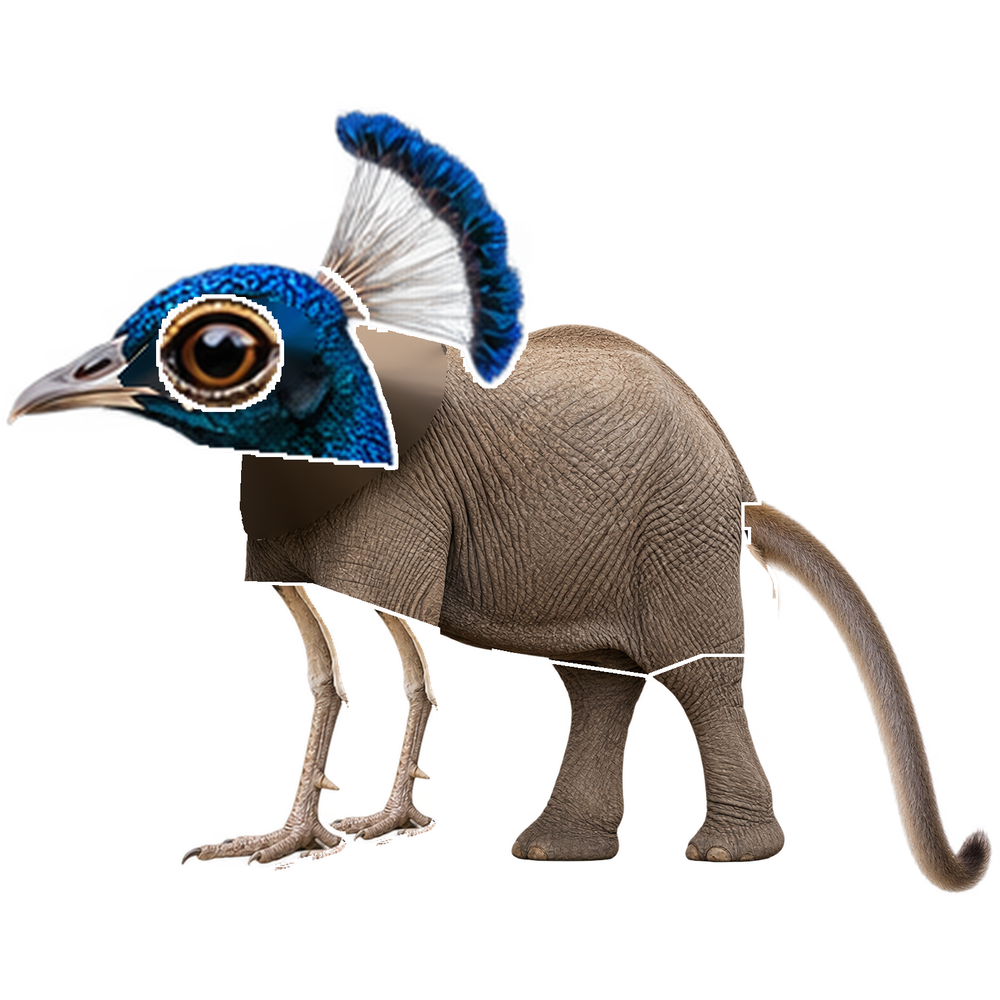
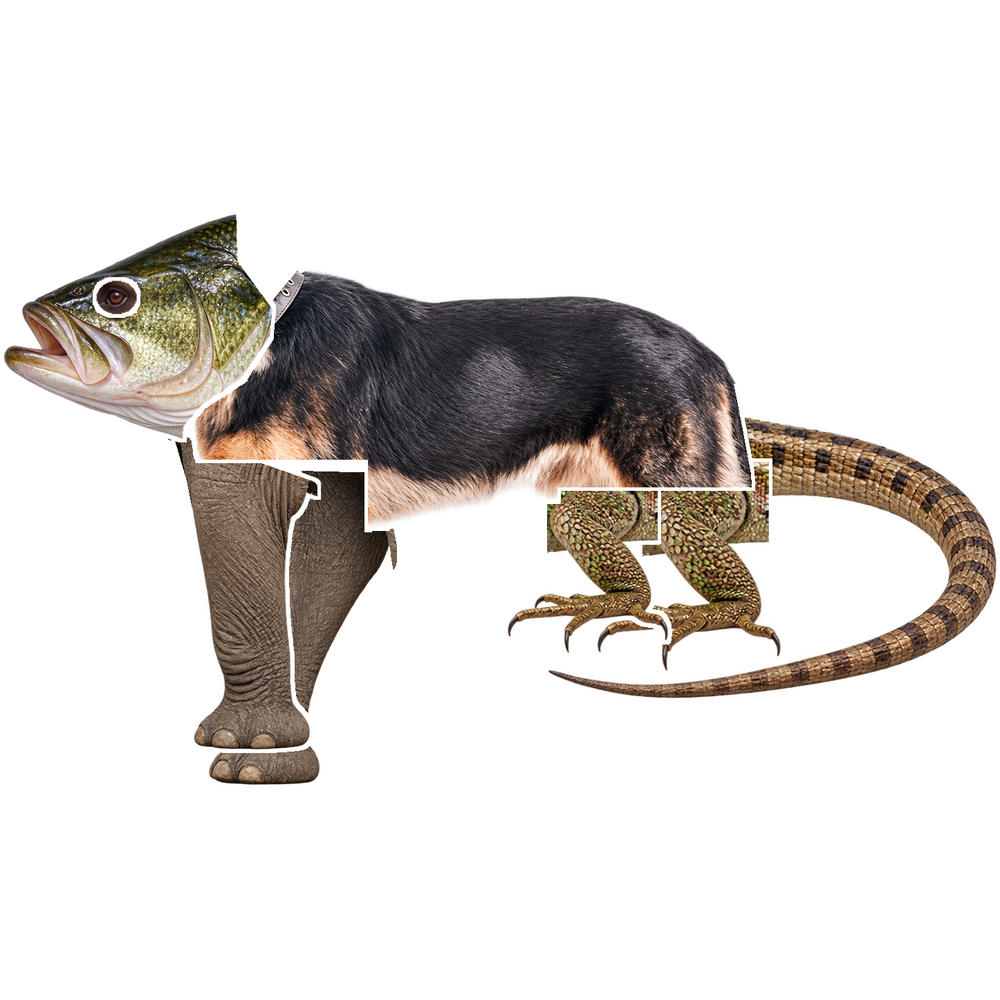
added function definitions so other .py files could call frankenstein and parts_classification

diff --git a/parts_classification.py b/parts_classification.py
@@ -9,11 +9,11 @@ from enum import Enum
 from langchain_core.messages import SystemMessage, HumanMessage
 import json
 import random
+import sys
 
 load_dotenv()
 
 
-#monster = input("Enter a monster that you want to create(give characteristics): ") -> sample user input
 llm = ChatOpenAI(api_key=os.getenv('OPEN_AI'), model='gpt-4o-mini')
 
 
@@ -92,12 +92,6 @@ class PartRequest(BaseModel):
             raise ValueError(
                 f"variant '{self.variant.value}' is not valid for slot '{self.slot.value}'"
             )
-        animals_used = {p.animal for p in self.parts}
-        if len(animals_used) > MAX_ANIMALS:
-            raise ValueError(
-                f"a creature may use at most {MAX_ANIMALS} different animals, "
-                f"got {len(animals_used)}: {sorted(a.value for a in animals_used)}"
-            )
         return self
 
 
@@ -123,6 +117,13 @@ class MonsterRequest(BaseModel):
             raise ValueError("every creature needs a torso")
         if len(slots) != len(set(slots)):
             raise ValueError("each slot may appear only once; use 'count' for multiples")
+
+        animals_used = {p.animal for p in self.parts}
+        if len(animals_used) > MAX_ANIMALS:
+            raise ValueError(
+                f"a creature may use at most {MAX_ANIMALS} different animals, "
+                f"got {len(animals_used)}: {sorted(a.value for a in animals_used)}"
+            )
 
         # Count individual legs. front_legs with variant 'arms' are arms, not legs.
         leg_count = sum(
@@ -370,19 +371,23 @@ Output:
 }
 """
 
-messages = [
-    SystemMessage(content= f"{rules} \n {examples}"),
-    HumanMessage(content=(
+def classify(monster: str) -> MonsterRequest:
+    """Turn a free-text monster description into a validated MonsterRequest."""
+    messages = [
+        SystemMessage(content=f"{rules} \n {examples}"),
+        HumanMessage(content=(
             "Classify the creature description below into body parts.\n\n"
-            f"Description: {monster.strip()}"
+            f"Description: {monster.strip()}\n"
             f"Silly twists: {'; '.join(twists)}"
-        ))
-]
-
-result = llm.invoke(messages)
-
-final_result = result.model_dump_json()
+        )),
+    ]
+    # with_structured_output makes the model return a MonsterRequest instead of plain text
+    return llm.with_structured_output(MonsterRequest).invoke(messages)
 
 
-#print(result.content)
+if __name__ == "__main__":
+    # Pass the description on the command line, or type it when prompted
+    monster = " ".join(sys.argv[1:]) or input("Enter a monster that you want to create (give characteristics): ")
+    result = classify(monster)
+    print(result.model_dump_json(indent=2))
 

diff --git a/frankenstein.py b/frankenstein.py
@@ -17,7 +17,7 @@ from PIL import Image, ImageFilter
 # Paths are relative to this file so the script works from any working directory
 ANIMALS_DIR = Path(__file__).parent / "Animal_PNGS"
 LIBRARY = ANIMALS_DIR / "animal_library.json"
-OUTPUT = ANIMALS_DIR / "random_frankenstein.png"
+OUTPUT = ANIMALS_DIR / "animal_frankenstein.png"
 # Final image is OUTPUT_SIZE x OUTPUT_SIZE; creatures larger than that are scaled down to fit
 OUTPUT_SIZE = 1000
 # Thickness in pixels of the white border around each part
@@ -297,6 +297,20 @@ def build(filenames):
     final = Image.new("RGBA", (OUTPUT_SIZE, OUTPUT_SIZE), (0, 0, 0, 0))
     final.paste(canvas, ((OUTPUT_SIZE - canvas.width) // 2, (OUTPUT_SIZE - canvas.height) // 2))
     return final, chosen  # the image and the part names in the order they were attached
+
+
+def create_creature(filenames, output_path=OUTPUT):
+    """Build a creature from part filenames and save it as a PNG.
+
+    Meant to be called from other modules:
+        import frankenstein
+        path = frankenstein.create_creature(["monkey_torso.png", "elephant_head.png", ...])
+    Returns the Path of the saved image. Raises ValueError for invalid part lists.
+    """
+    image, _ = build(filenames)
+    output_path = Path(output_path)
+    image.save(output_path)
+    return output_path
 
 
 if __name__ == "__main__":
